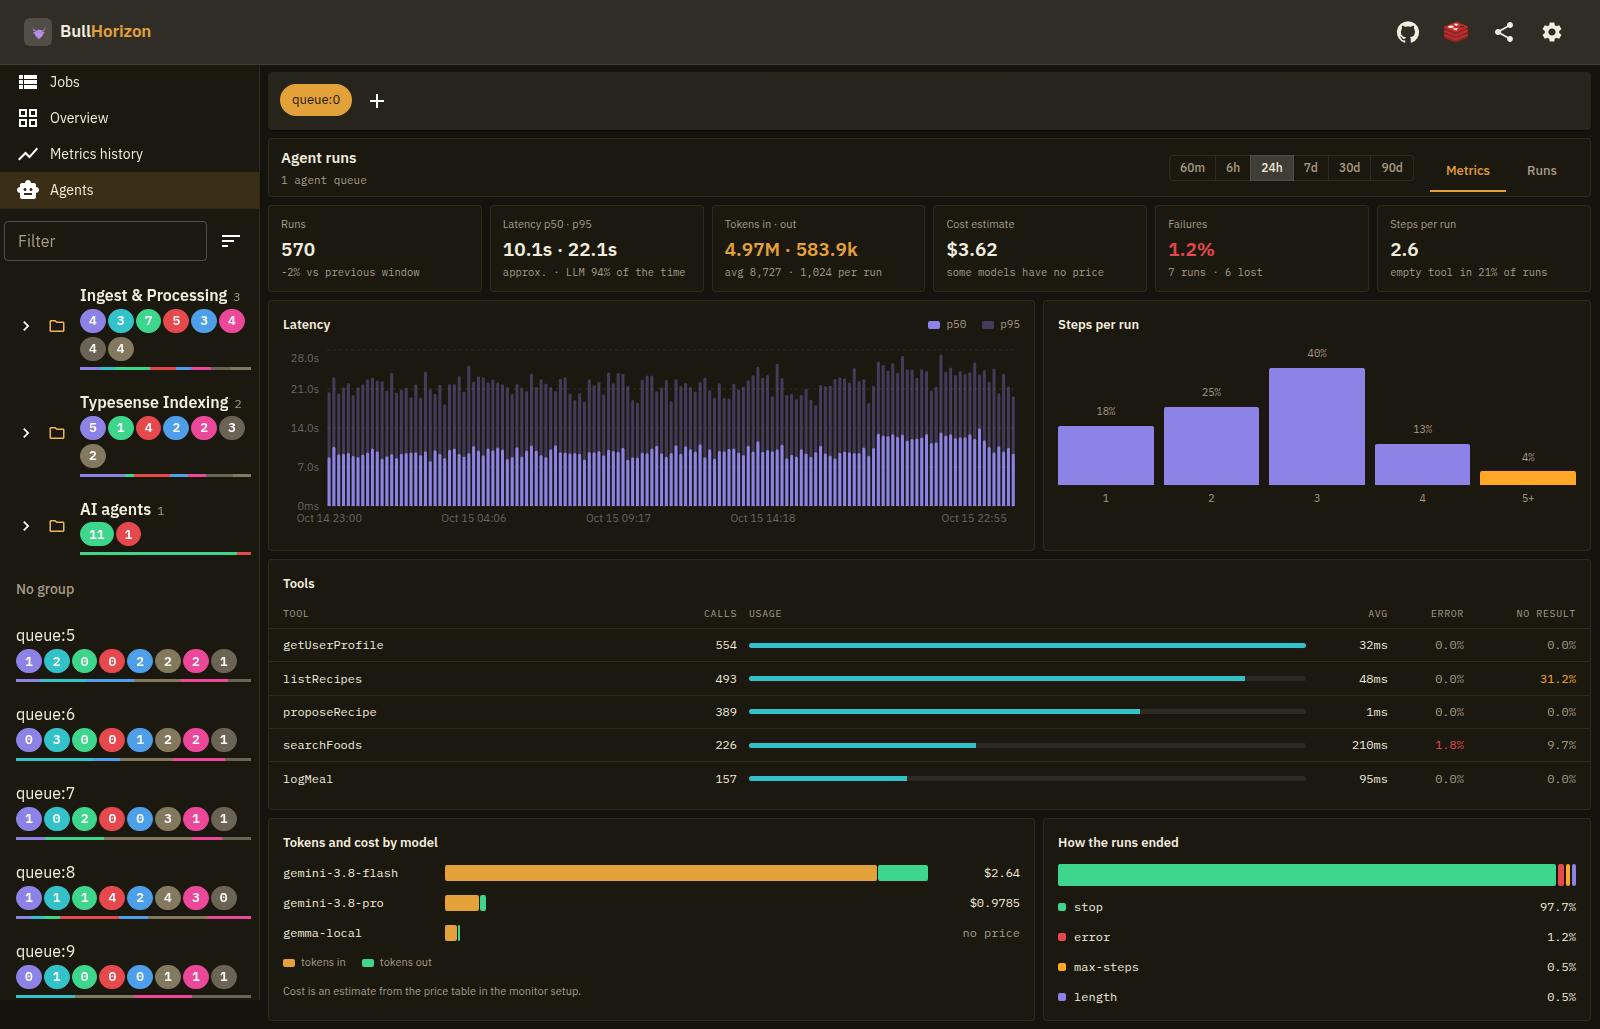
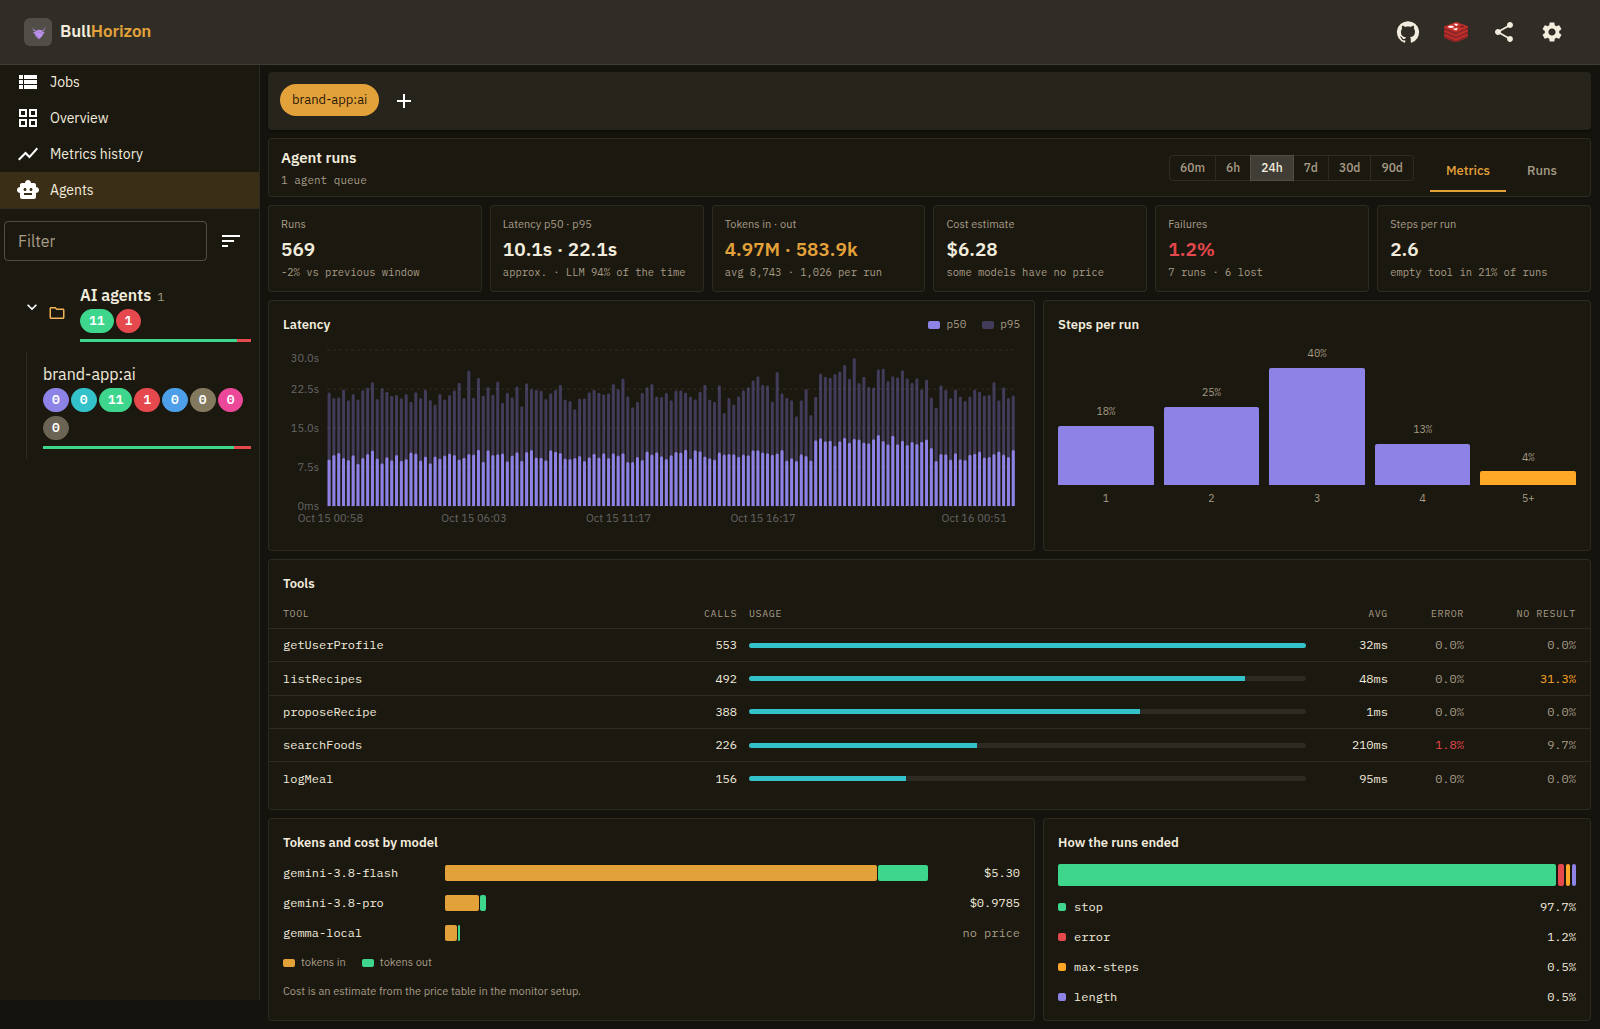
feat(ui): scope the sidebar to agent queues on the Agents screen
On Agents the sidebar lists only agent queues, and picking one filters the
screen by it instead of jumping to Jobs; picking it again goes back to all
agent queues. On the other screens every queue is still listed, and agent
queues carry a robot icon so they can be told apart.

diff --git a/packages/ui/src/shell/Drawer/Queues/index.tsx b/packages/ui/src/shell/Drawer/Queues/index.tsx
@@ -12,6 +12,8 @@ import {
 } from '@/atoms/workspaces';
 import { useGroupedQueues, useMaybeGroupQueuesByPrefix } from './hooks';
 import { useActiveScreenStore } from '@/stores/active-screen';
+import { useAgentsStore } from '@/stores/agents';
+import { sidebarQueueAction } from './screen-scope';
 import { useUpdateAtom } from 'jotai/utils';
 import type { GetQueuesQuery, JobStatus } from '@/typings/gql';
 import type { Maybe } from '@/typings/utils';
@@ -26,29 +28,30 @@ export default function DrawerQueuesList({ queues }: TProps) {
   const changeActiveQueueLabel = useUpdateAtom(activeQueueLabelAtom);
   const changeActiveStatus = useUpdateAtom(activeStatusAtom);
   const closeDrawer = useDrawerState((state) => state.close);
+  const onAgents = useActiveScreenStore((state) => state.screen === 'agents');
+  const agentsQueue = useAgentsStore((state) => state.queue);
   const onSelect = useCallback(
     (queue: string, label: string, status?: Maybe<JobStatus>) => {
+      // Read through `getState()` rather than a subscription so this callback
+      // keeps a stable identity — it is handed to every queue row, and a new
+      // identity on every screen change re-renders the entire list.
+      const { screen, changeScreen } = useActiveScreenStore.getState();
+      const action = sidebarQueueAction(screen);
+      // On Agents the sidebar filters that screen; Jobs keeps its queue.
+      if (action === 'filter-agents') {
+        useAgentsStore.getState().pickSidebarQueue(queue);
+        closeDrawer();
+        return;
+      }
       changeActiveQueue(queue);
       changeActiveQueueLabel(label);
       if (status) {
         changeActiveStatus(status);
       }
-      // Overview, Metrics history and Agents are cross-queue: picking a queue while one
-      // of them is open changed the selection but left the screen looking
-      // identical, which reads as "clicking a queue does nothing". Per-queue
-      // screens (jobs, metrics) keep their context and just swap the queue.
-      //
-      // Read through `getState()` rather than a subscription so this callback
-      // keeps a stable identity — it is handed to every queue row, and a new
-      // identity on every screen change re-renders the entire list.
-      const { screen, changeScreen } = useActiveScreenStore.getState();
-      if (
-        screen === 'overview' ||
-        screen === 'history' ||
-        screen === 'agents'
-      ) {
-        changeScreen('jobs');
-      }
+      // Overview and Metrics history are cross-queue: picking a queue there
+      // changed the selection but left the screen looking identical, which
+      // reads as "clicking a queue does nothing", so it opens Jobs.
+      if (action === 'go-to-jobs') changeScreen('jobs');
       closeDrawer();
     },
     []
@@ -57,7 +60,10 @@ export default function DrawerQueuesList({ queues }: TProps) {
     return (
       <Queue
         onSelect={onSelect}
-        isSelected={activeQueue === queue.id}
+        isSelected={
+          onAgents ? agentsQueue === queue.id : activeQueue === queue.id
+        }
+        showAgentIcon={!onAgents}
         key={queue.id}
         queue={queue}
       />

diff --git a/packages/ui/src/shell/Drawer/Queues/Queue.tsx b/packages/ui/src/shell/Drawer/Queues/Queue.tsx
@@ -5,6 +5,8 @@ import ListItemText from '@mui/material/ListItemText';
 import JobsCount from './JobsCount';
 import PauseIcon from '@mui/icons-material/Pause';
 import BlockIcon from '@mui/icons-material/Block';
+import AgentIcon from '@mui/icons-material/SmartToy';
+import { alpha } from '@mui/material/styles';
 import makeStyles from '@mui/styles/makeStyles';
 import Typography from '@mui/material/Typography';
 import { useJobsCountArray, useQueueWorkspaceLabel } from './hooks';
@@ -19,11 +21,29 @@ const useStyles = makeStyles((theme) => ({
       minWidth: 32,
     },
   },
+  name: {
+    display: 'flex',
+    alignItems: 'center',
+    gap: theme.spacing(0.75),
+    minWidth: 0,
+  },
+  nameText: {
+    textOverflow: 'ellipsis',
+    overflow: 'hidden',
+    whiteSpace: 'nowrap',
+  },
+  agentIcon: {
+    flex: 'none',
+    fontSize: '15px !important',
+    color: alpha(theme.palette.text.primary, 0.6),
+  },
 }));
 
 type TProps = {
   queue: NonNullable<GetQueuesQuery['queues']>[0];
   isSelected: boolean;
+  /** Marks AI agent queues (not on Agents, where every queue is one). */
+  showAgentIcon?: boolean;
 
   onSelect: (queue: string, label: string, status?: Maybe<JobStatus>) => void;
 };
@@ -64,15 +84,15 @@ const DrawerQueue = (props: TProps) => {
       <ListItemText
         disableTypography
         primary={
-          <Typography
-            style={{
-              textOverflow: 'ellipsis',
-              overflow: 'hidden',
-              whiteSpace: 'nowrap',
-            }}
-          >
-            {props.queue.name}
-          </Typography>
+          <span className={cls.name}>
+            <Typography className={cls.nameText}>{props.queue.name}</Typography>
+            {props.showAgentIcon && props.queue.agent && (
+              <AgentIcon
+                className={cls.agentIcon}
+                titleAccess="AI agent queue"
+              />
+            )}
+          </span>
         }
         secondary={<JobsCount count={countArray} />}
       />

diff --git a/packages/ui/src/stores/__tests__/agents.test.ts b/packages/ui/src/stores/__tests__/agents.test.ts
@@ -96,6 +96,38 @@ describe('agents store', () => {
     expect(agents().runsLimit).toBe(AGENT_RUNS_PAGE);
   });
 
+  describe('sidebar queue on Agents', () => {
+    it('filters by the queue, keeps the tab and closes an open run', () => {
+      agents().changeTab('runs');
+      agents().openRun(RUN, 'runs');
+      agents().showMoreRuns();
+      agents().pickSidebarQueue('bull:brand-app:ai');
+      expect(screen()).toBe('agents');
+      expect(agents().queue).toBe('bull:brand-app:ai');
+      expect(agents().tab).toBe('runs');
+      expect(agents().run).toBeNull();
+      expect(agents().runsLimit).toBe(AGENT_RUNS_PAGE);
+    });
+
+    it('closes an open conversation too', () => {
+      agents().openRun(RUN, 'runs');
+      agents().openConversation({ queue: RUN.queue, conversationId: 'c-1' });
+      agents().pickSidebarQueue('bull:brand-app:ai');
+      expect(agents().conversation).toBeNull();
+      expect(agents().conversationFrom).toBeNull();
+    });
+
+    it('the same queue again goes back to every agent queue', () => {
+      agents().changeQueue(null);
+      agents().pickSidebarQueue('bull:brand-app:ai');
+      agents().pickSidebarQueue('bull:brand-app:ai');
+      expect(agents().queue).toBeNull();
+      agents().pickSidebarQueue('bull:brand-app:ai');
+      agents().pickSidebarQueue('bull:other:ai');
+      expect(agents().queue).toBe('bull:other:ai');
+    });
+  });
+
   describe('conversation', () => {
     const CONV = { queue: RUN.queue, conversationId: 'c-7f21' };
     const MSG = { queue: RUN.queue, jobId: 'd41e6b02', attempt: 1 };

diff --git a/packages/ui/src/shell/Drawer/Queues/screen-scope.ts b/packages/ui/src/shell/Drawer/Queues/screen-scope.ts
@@ -1,0 +1,29 @@
+// Which queues the sidebar lists, per screen. Pure and import-free so the
+// rule is unit-testable from the root jest setup.
+
+type TScopedQueue = { agent?: unknown };
+
+/**
+ * On Agents the sidebar is a queue filter for that screen: only agent queues
+ * (groups left without one disappear, since groups are built from this
+ * list). Every other screen lists every queue.
+ */
+export const queuesForScreen = <T extends TScopedQueue>(
+  queues: T[] | null | undefined,
+  screen: string
+): T[] | null | undefined =>
+  screen === 'agents' && queues ? queues.filter((q) => !!q.agent) : queues;
+
+export type TSidebarQueueAction = 'filter-agents' | 'go-to-jobs' | 'stay';
+
+/**
+ * What picking a queue in the sidebar does. Agents filters itself by it.
+ * Overview and Metrics history are cross-queue, so they hand over to Jobs
+ * (otherwise the click would look like it did nothing); Jobs just swaps the
+ * queue.
+ */
+export const sidebarQueueAction = (screen: string): TSidebarQueueAction => {
+  if (screen === 'agents') return 'filter-agents';
+  if (screen === 'overview' || screen === 'history') return 'go-to-jobs';
+  return 'stay';
+};

diff --git a/packages/ui/src/shell/Drawer/Queues/__tests__/screen-scope.test.ts b/packages/ui/src/shell/Drawer/Queues/__tests__/screen-scope.test.ts
@@ -1,0 +1,34 @@
+import { queuesForScreen, sidebarQueueAction } from '../screen-scope';
+
+const QUEUES = [
+  { id: 'a', agent: null },
+  { id: 'ai', agent: { label: 'brand-app:ai' } },
+  { id: 'b' },
+];
+
+describe('queuesForScreen', () => {
+  it('lists only agent queues on Agents', () => {
+    expect(queuesForScreen(QUEUES, 'agents')?.map((q) => q.id)).toEqual(['ai']);
+  });
+  it('lists every queue elsewhere', () => {
+    for (const screen of ['jobs', 'overview', 'history']) {
+      expect(queuesForScreen(QUEUES, screen)).toBe(QUEUES);
+    }
+  });
+  it('passes a missing list through', () => {
+    expect(queuesForScreen(undefined, 'agents')).toBeUndefined();
+  });
+});
+
+describe('sidebarQueueAction', () => {
+  it('filters Agents instead of leaving it', () => {
+    expect(sidebarQueueAction('agents')).toBe('filter-agents');
+  });
+  it('hands the cross-queue screens over to Jobs', () => {
+    expect(sidebarQueueAction('overview')).toBe('go-to-jobs');
+    expect(sidebarQueueAction('history')).toBe('go-to-jobs');
+  });
+  it('keeps Jobs where it is', () => {
+    expect(sidebarQueueAction('jobs')).toBe('stay');
+  });
+});

diff --git a/packages/ui/src/stores/agents.ts b/packages/ui/src/stores/agents.ts
@@ -64,6 +64,12 @@ type TAgentsState = {
 
   changeTab: (tab: TAgentsTab) => void;
   changeQueue: (queue: string | null) => void;
+  /**
+   * A queue picked in the sidebar while on Agents: filters the screen by it
+   * (again on the same queue = every agent queue), closing an open run or
+   * conversation, and keeps the tab.
+   */
+  pickSidebarQueue: (queue: string) => void;
   changeRunLayout: (layout: TAgentsRunLayout) => void;
   changeRange: (range: string) => void;
   changeAttempt: (attempt: number) => void;
@@ -110,6 +116,12 @@ export const useAgentsStore = createStore<TAgentsState>(
 
       changeTab: (tab) => set({ tab, ...CLEARED }),
       changeQueue: (queue) => set({ queue, runsLimit: AGENT_RUNS_PAGE }),
+      pickSidebarQueue: (queue) =>
+        set({
+          ...CLEARED,
+          queue: get().queue === queue ? null : queue,
+          runsLimit: AGENT_RUNS_PAGE,
+        }),
       changeRunLayout: (runLayout) => set({ runLayout }),
       changeRange: (range) => set({ range }),
       changeAttempt: (attempt) => {

diff --git a/packages/ui/src/shell/Drawer/index.tsx b/packages/ui/src/shell/Drawer/index.tsx
@@ -18,6 +18,8 @@ import QueuesFilter from './Filter';
 import QueuesSorter from './Sorter';
 import useMediaQuery from '@mui/material/useMediaQuery';
 import { useQueuesQuery } from '@/hooks/use-queues-query';
+import { useActiveScreenStore } from '@/stores/active-screen';
+import { queuesForScreen } from './Queues/screen-scope';
 import isempty from 'lodash/isEmpty';
 import Alert from '@mui/material/Alert';
 import { LayoutConfig } from '@/config/layouts';
@@ -80,7 +82,10 @@ export default function Drawer() {
   );
   const { onMouseDown: onDraggerMouseDown } = useDraggerEventHandlers();
   const queues = data?.queues;
-  const filteredQueues = useFilteredQueues(queues);
+  const screen = useActiveScreenStore((state) => state.screen);
+  // Before the text filter, so the Filter box and group counts see the same
+  // list the sidebar shows.
+  const filteredQueues = useFilteredQueues(queuesForScreen(queues, screen));
   const sortedQueues = useSortedQueues(filteredQueues);
 
   return (

diff --git a/memorys/business.md b/memorys/business.md
@@ -24,7 +24,7 @@ Ele nasce em branco (ou com este boilerplate essencial) em novos templates e **d
 - Suporte a **jobs prioritizados** (`prioritized` status) adicionado na v5.2.0 — funcionalidade relativamente recente na linha do tempo do projeto.
 - O dashboard tem **3 telas**, numa lista simples na sidebar: `jobs` (lista da fila ativa), `overview` (grid de todas as filas com distribuição de status) e `history` (throughput agregado + tabela por fila). `history` só aparece com o metrics collector configurado. Chegaram a ser agrupadas por escopo (*Active queue* / *All queues*) e o usuário mandou remover os cabeçalhos — três entradas não precisam de agrupamento.
 - **Não existe mais tela de métricas por fila.** Existiu (herdada do upstream: gráfico de profundidade no tempo + tempo de processamento), foi movida para a sidebar e restilizada na task 003, e o usuário pediu a remoção — *"do jeito que tá não me serve"*. Os dados continuam disponíveis no schema (`Query.metrics` com `processingTime`/`counts`) e no exportador Prometheus; o que saiu foi só a tela. Não recriar sem novo pedido.
-- **Regra de navegação**: escolher uma fila na sidebar a partir de uma tela cross-queue (`overview`/`history`) leva para `jobs` daquela fila. A partir de uma tela por fila, apenas troca a fila. `Jobs` é uma entrada explícita da sidebar justamente para que voltar seja sempre um clique — quando ficou implícita atrás de um toggle na AppBar, as telas por fila viraram beco sem saída.
+- **Regra de navegação**: escolher uma fila na sidebar a partir de uma tela cross-queue (`overview`/`history`) leva para `jobs` daquela fila (exceção: na tela `agents` a escolha filtra a própria tela, ver Visão Agentes IA). A partir de uma tela por fila, apenas troca a fila. `Jobs` é uma entrada explícita da sidebar justamente para que voltar seja sempre um clique — quando ficou implícita atrás de um toggle na AppBar, as telas por fila viraram beco sem saída.
 - Os botões **Clear / Clear all** de métricas vivem na tela `history` (eram da tela por fila removida). São a única UI das mutations `clearMetrics`/`clearAllMetrics`.
 - **Throughput é contado por eventos de fila enquanto o processo do monitor está vivo** — não é backfilled e um restart deixa buraco na série. É observabilidade, não contabilidade. A UI diz isso no estado vazio; não prometer histórico contínuo ao usuário.
 - **Retenção default de métricas: 90 dias, com detalhe decaindo por idade** — 3 dias minuto a minuto, 30 dias hora a hora, 90 dias em buckets de 12h. Configurável em resolução e profundidade (`metrics.retention`). Os seletores de janela da UI são derivados de `Query.metricsInfo`, não hardcoded: se a retenção mudar, as opções acompanham.
@@ -35,6 +35,7 @@ Ele nasce em branco (ou com este boilerplate essencial) em novos templates e **d
   - **Quem integra escolhe o nível de detalhe de cada fila**: trace completo (input/output das tools, texto dos passos) ou só o básico (tokens, passos, nomes das tools, resumos). Detalhe total serve para fila em teste ou camada que exige investigação. O básico serve para filas cujas saídas de tool carregam dado sensível, como o resumo de saúde da cliente no app-brand, que hoje fica fora do Redis de propósito.
   - O contrato do trace é **versionado e documentado** antes de a UI depender dele: o usuário vai ajustar o payload do app a partir do padrão escrito. Depois vem uma skill que ensina a instrumentar e a construir jobs para essa visão.
   - **Telas escolhidas (2026-10-15)**: aba **Run** com as duas leituras do design, o grafo de passos com painel do nó (opção A) e o waterfall no tempo (opção B). Aba **Métricas** com as duas opções, que se complementam: agregados (latência p50/p95 por hora, passos por run, tabela de tools com erro e "sem resultado", tokens e custo por modelo, como os runs terminaram) e a lista de runs com a cadeia de tools, filtros e ordenação. A aba **Conversa** (agrupar runs por `input.conversationId`) entrou no mesmo ciclo a pedido do usuário, com as opções A e B alternáveis.
+  - **Sidebar na tela Agents (pedido do usuário, 2026-10-16)**: lista só filas de agente (grupos sem fila de agente somem) e escolher uma fila ali **filtra a tela Agents por ela**, sem ir para `jobs`. É exceção à regra geral de navegação das telas cross-queue. Nas outras telas a sidebar mostra todas as filas, e as de agente têm um ícone de robô para serem reconhecidas.
   - **Agregados vêm do metrics collector**, não de varrer jobs: cada run é registrado ao completar, em rollups no Redis com a retenção já configurada. Assim as janelas de 24h/7d/30d sobrevivem ao `removeOnComplete`. Com o collector desligado, a aba Métricas não aparece, mesma regra da tela `history`.
   - **Custo é estimativa**: tabela de preço por modelo (USD por 1M tokens de entrada e de saída) declarada no setup. Modelo sem preço mostra tokens sem custo, nunca custo zero.
 - Existe um **modo demo** (`VITE_ENABLE_MOCKS=true`) usado para o build publicado no GitHub Pages, com dados mockados (`packages/ui/src/demo-mocks`) em vez de conexão real a Redis.
